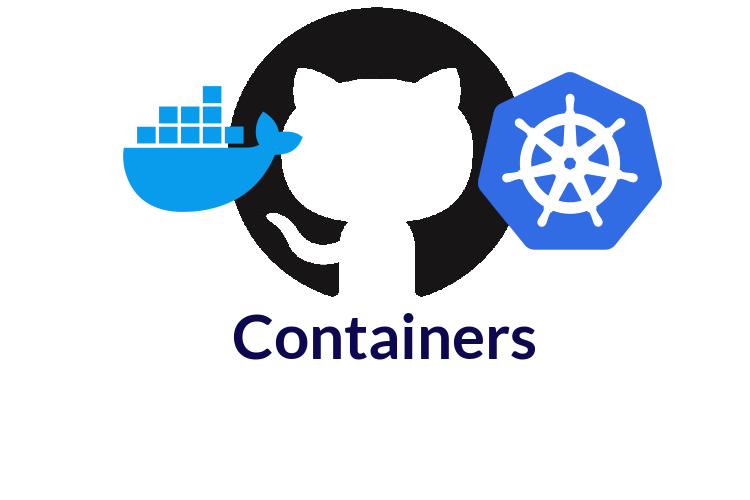
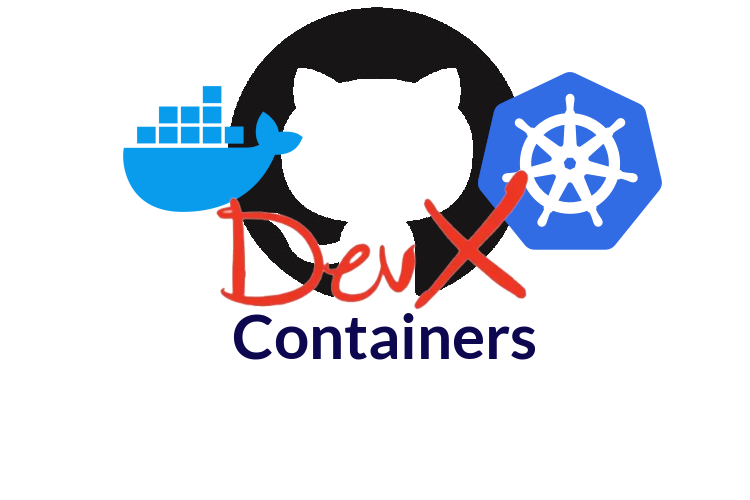
Update event image and excerpt

Changed region(s): [[0.276, 0.33, 0.7053, 0.63]]

diff --git a/_events/2024/mar/cph-code-club.md b/_events/2024/mar/cph-code-club.md
@@ -1,20 +1,20 @@
 ---
 title: 'Containerizing the Developer Experience'
 layout: event-signup
-excerpt: "Devcontainers and Kubernetes"
+excerpt: "Two show cases; one on how to use Devcontainers in GitHub CodeSpaces to create an Internal Development Platform and one on how to move Virtual Machines to K8S orchestrated containers."
 share: false
 header:
   teaser: /assets/images/events/container_teaser.png
 event:
   date: 2024-03-19
-  image: /assets/images/events/cph-code-club.png
+  image: /assets/images/events/container_teaser.png
   eventbrite-id: 849339737017
   place: .the tech collective, Strandvejen 56, 2900 Hellerup
   time: "17:30 - 20:00"
 show-on-list: true
 ---
 
-A show case on how to use Devcontainers in GitHub CodeSpaces to create an Internal Development Platform and how ro move Virtual Machines to K8S orchestrated containers.
+{{ page.excerpt }}
 {: .kicker}
 
 This event is co-organized between **.the tech collective** and **Copenhagen Code Club**. It's hosted at Implement's headquarters in Hellerup.
